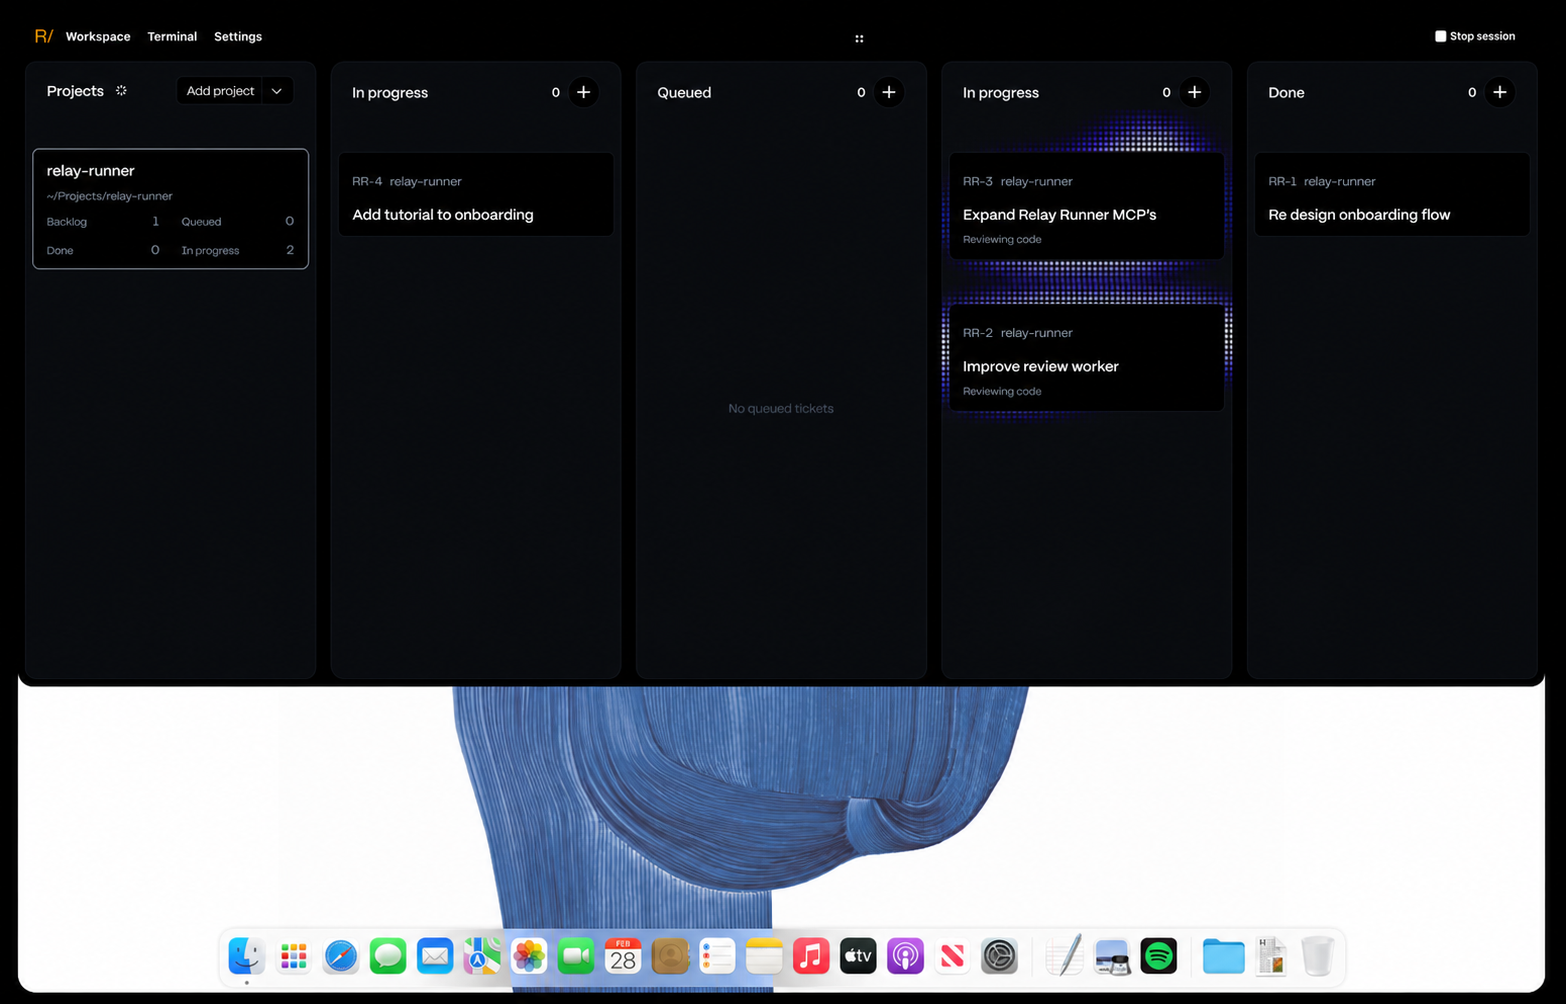
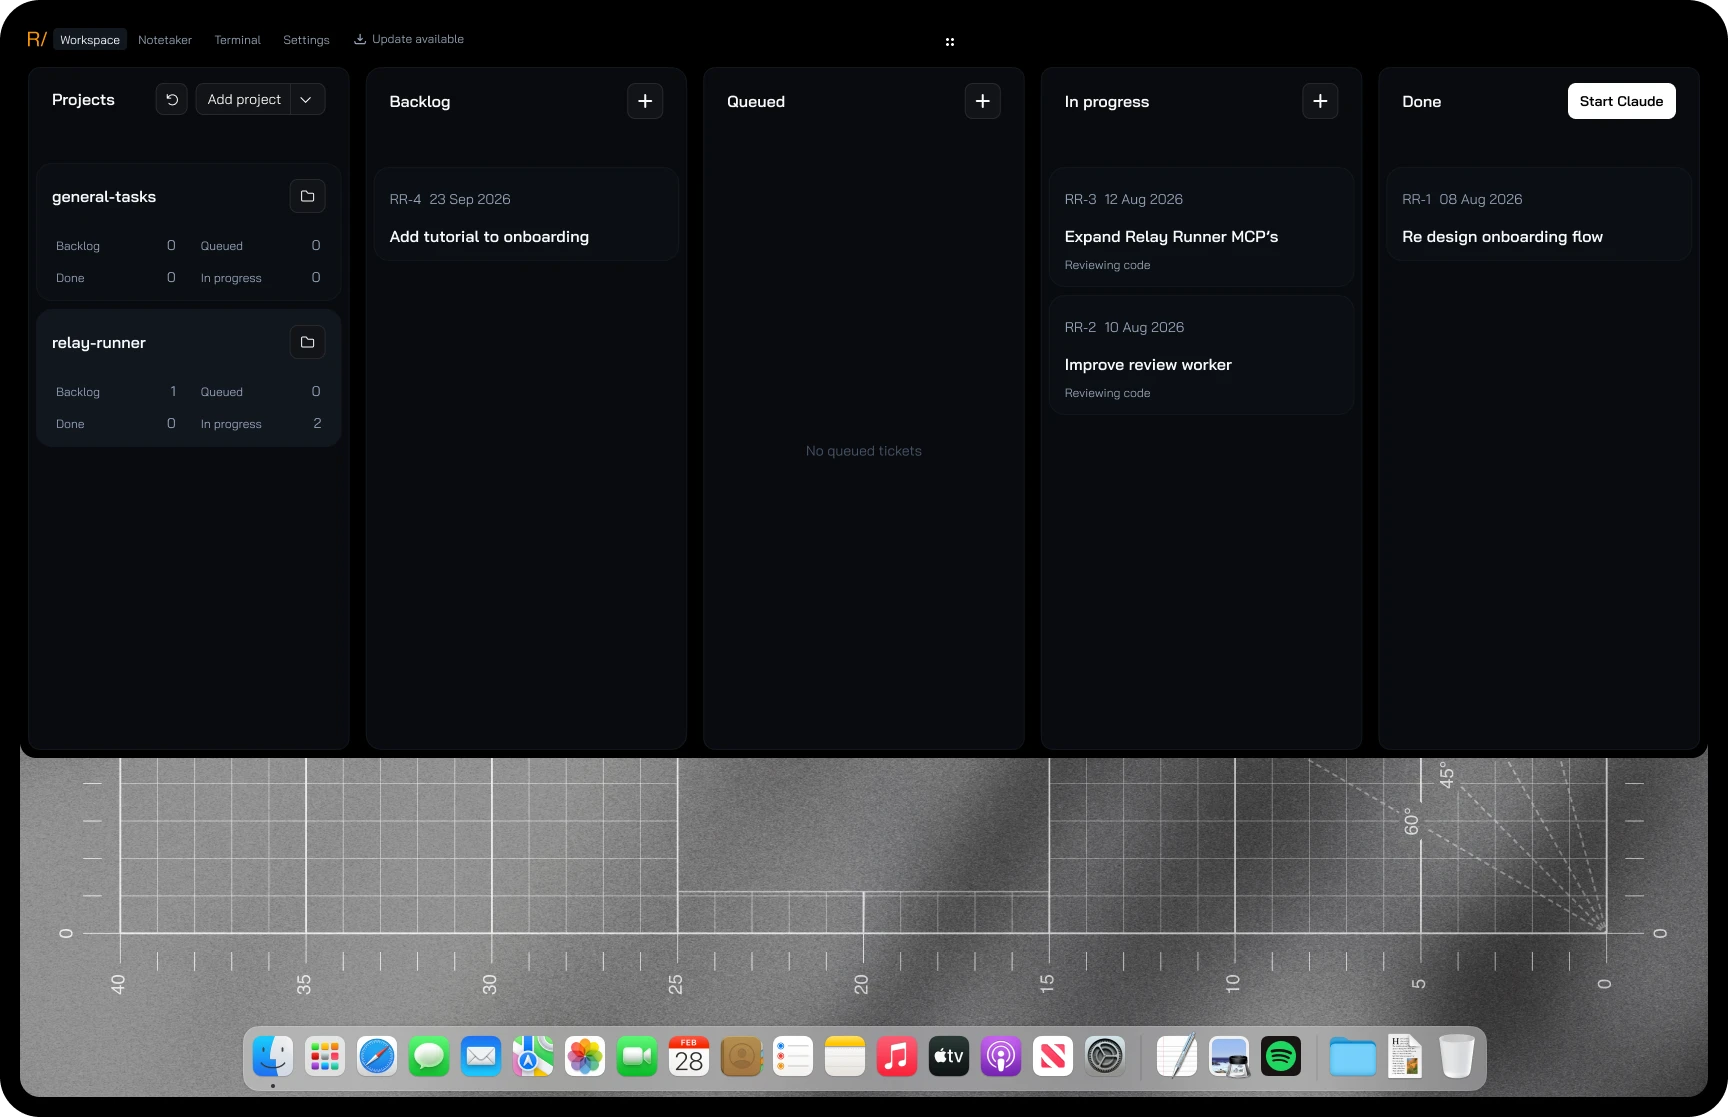
Refresh README screenshots and add badges

diff --git a/README.md b/README.md
@@ -4,6 +4,12 @@
 
 **Talk to Codex or Claude while a native macOS workspace keeps your sessions, project tickets, and agent progress in view.**
 
+[![Latest release](https://img.shields.io/github/v/release/matthewthomas94/relay-runner?label=release)](https://github.com/matthewthomas94/relay-runner/releases/latest)
+[![Build DMG](https://github.com/matthewthomas94/relay-runner/actions/workflows/build-dmg.yml/badge.svg?branch=main)](https://github.com/matthewthomas94/relay-runner/actions/workflows/build-dmg.yml)
+[![macOS 14+](https://img.shields.io/badge/macOS-14%2B-black?logo=apple)](#get-started)
+[![Swift 5.9](https://img.shields.io/badge/Swift-5.9-F05138?logo=swift&logoColor=white)](Package.swift)
+[![License: MIT](https://img.shields.io/github/license/matthewthomas94/relay-runner)](LICENSE)
+
 [Get started](#get-started) · [See the product](#a-voice-layer-and-a-workspace) · [Privacy](#what-stays-local) · [Documentation](#go-further) · [Contribute](CONTRIBUTING.md)
 
 </div>
@@ -58,9 +64,13 @@ For faster code iteration, use `swift build` and `swift test`. See [Contributing
 
 The voice layer captures audio, transcribes it with Parakeet, delivers text to the configured agent session, and speaks replies with Kokoro. Listening and playback have visible states, and the overlay recedes when it has nothing to say.
 
+![Relay Runner viewing the screen through Relay Vision with the halftone perimeter glow active](docs/images/relay-runner-viewing-screen.png)
+
+*When you ask the agent to look, Relay Vision captures the screen and the notch and perimeter glow show that it is viewing.*
+
 Workspace is the project side of the same session. Select a registered local repository, start a project-scoped Codex or Claude terminal, create or inspect tickets, and follow orchestration and worker progress without treating the app's support directory as a project.
 
-![Relay Runner Workspace with one local project and visible ticket progress](docs/images/relay-runner-workspace.png)
+![Relay Runner Workspace with projects, backlog, queued, in-progress, and done columns](docs/images/relay-runner-workspace.png)
 
 *Workspace keeps project selection, the active session, tickets, orchestration, and worker review in one native surface.*
 
